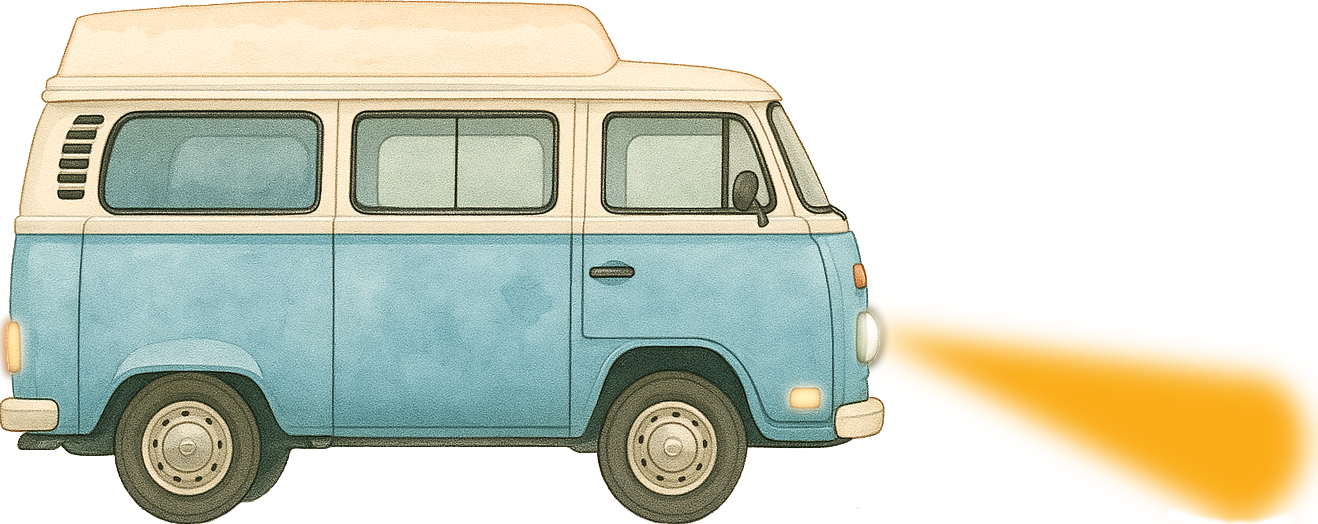
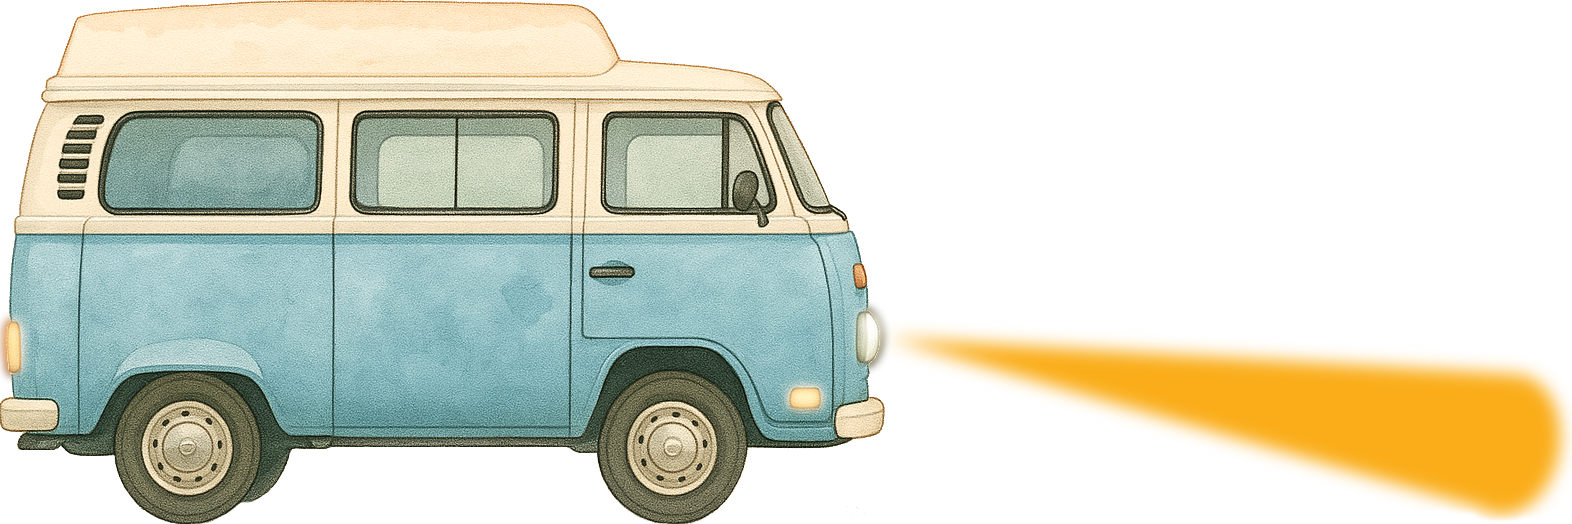
add midnight and correct car headlight size

diff --git a/style.css b/style.css
@@ -111,25 +111,22 @@ h2{
     background-position: center;
     background-repeat: no-repeat;
     transition: all 0.5s ease-in-out;
-    min-height: 100vh;
+    height: 1000px;
     width: 100%;
 }
 
 /* Car and Scenery */
 
 .night {
-    height: 83vh;
-    width: 73vw;
-    margin: 6rem auto;
-    background: url(Scenery\ 1.jpg);
+    height: 1000px;
+    width: 100%;
     background-size: cover;
     position: relative;
-    box-shadow: 1px 2px 60px rgba(0, 0, 0, 0.4);
     overflow-x: hidden;
 }
 
 .surface{
-    height: 200px;
+    height: 220px;
     width: 500%;
     background: url(Mountain\ 1.png);
     display: block;
@@ -141,7 +138,7 @@ h2{
 
 .car{
     position: absolute;
-    bottom: 2%;
+    bottom: 1%;
     left: 24%;
 }
 
@@ -155,7 +152,11 @@ h2{
 }
 
 .recover {
-    width: 67.5%;
+    width: 62.2%;
+}
+
+.car-recover {
+    width: 27.7% !important;
 }
 
 .wheel {

diff --git a/script.js b/script.js
@@ -44,10 +44,13 @@ $(document).ready(function(){
                 flag = false;
                 $img.attr('src', cars[0]);
                 $wheels.removeClass('recover');
+                $img.removeClass('car-recover');
             }else{
                 flag = true;
                 $img.attr('src', cars[1]);
+
                 $wheels.addClass('recover');
+                $img.addClass('car-recover');
             }
         }
     })
